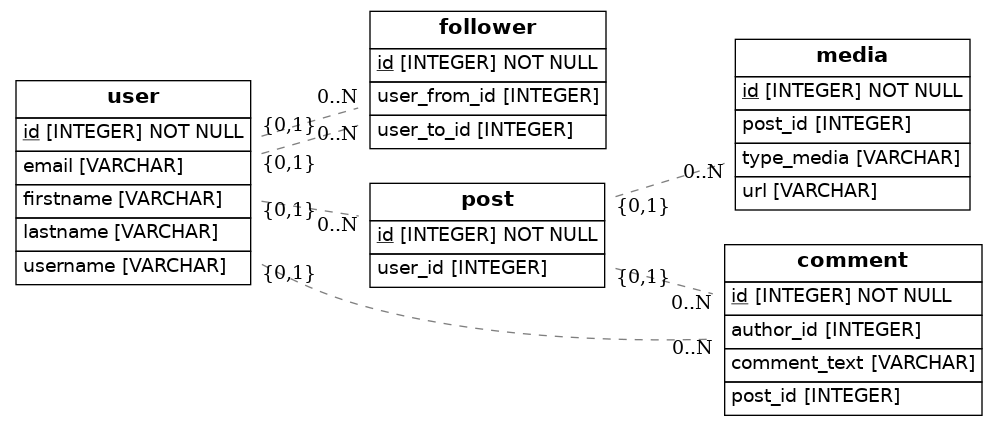
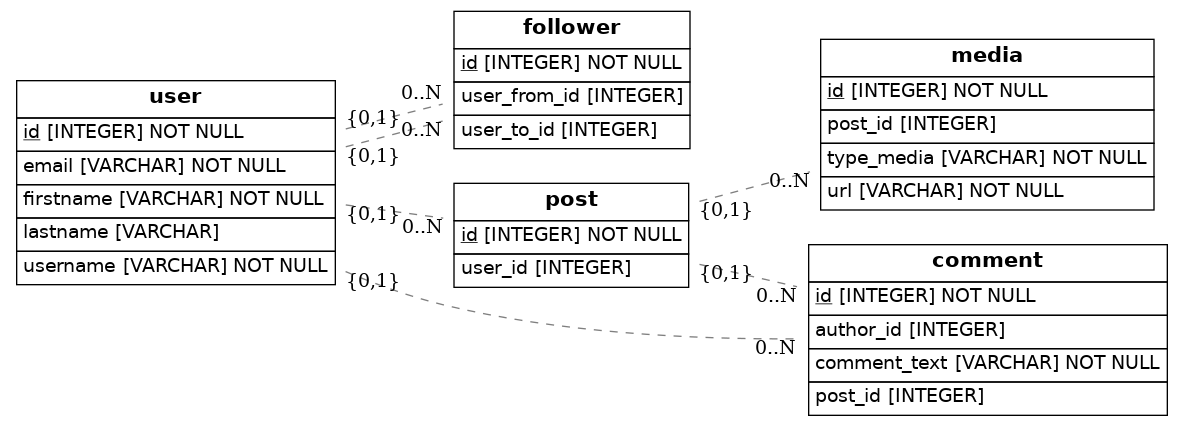
[FIX] names of relationship

diff --git a/src/models.py b/src/models.py
@@ -16,22 +16,21 @@ class Follower(Base):
     user_from_id = Column(Integer, ForeignKey('user.id'))
     user_to_id = Column(Integer, ForeignKey('user.id'))
 
-    user = relationship("User", back_populates = "follower")
+    user_follower = relationship("User", back_populates = "follower_user")
 
 class User(Base):
     __tablename__ = 'user'
     # Here we define columns for the table address.
     # Notice that each column is also a normal Python instance attribute.
     id = Column(Integer, primary_key=True)
-    username = Column(String)
-    firstname = Column(String)
-    lastname = Column(String)
-    email = Column(String)
+    username = Column(String, nullable=False, unique=True, index=True)
+    firstname = Column(String, nullable=False)
+    lastname = Column(String, nullable=True)
+    email = Column(String, nullable=False, unique=True)
 
-    follower = relationship("Follower", back_populates = "user")
-    post = relationship("Post", back_populates = "user")
-    comment = relationship("Comment", back_populates = "user")
-
+    follower_user = relationship("Follower", back_populates = "user_follower")
+    post_user = relationship("Post", back_populates = "user_post")
+    comment_user = relationship("Comment", back_populates = "user_comment")
 
 
     def to_dict(self):
@@ -42,11 +41,11 @@ class Media(Base):
     # Here we define columns for the table person
     # Notice that each column is also a normal Python instance attribute.
     id = Column(Integer, primary_key=True)
-    type_media = Column(Enum)
-    url = Column(String)
+    type_media = Column(Enum, nullable=False)
+    url = Column(String, nullable=False)
     post_id = Column(Integer, ForeignKey('post.id'))
 
-    post = relationship("Post", back_populates = "media")
+    post_media = relationship("Post", back_populates = "media_post")
 
 class Post(Base):
     __tablename__ = 'post'
@@ -55,9 +54,9 @@ class Post(Base):
     id = Column(Integer, primary_key=True)
     user_id = Column(Integer, ForeignKey('user.id'))
 
-    user = relationship("User", back_populates = "post")
-    media = relationship("Media", back_populates = "post")
-    comment = relationship("Comment", back_populates = "post")
+    user_post = relationship("User", back_populates = "post_user")
+    media_post = relationship("Media", back_populates = "post_media")
+    comment_post = relationship("Comment", back_populates = "post_comment")
 
 
 class Comment(Base):
@@ -65,12 +64,12 @@ class Comment(Base):
     # Here we define columns for the table person
     # Notice that each column is also a normal Python instance attribute.
     id = Column(Integer, primary_key=True)
-    comment_text = Column(String)
+    comment_text = Column(String, nullable=False)
     author_id = Column(Integer, ForeignKey('user.id'))
     post_id = Column(Integer, ForeignKey('post.id'))
 
-    user = relationship("User", back_populates = "comment")
-    post = relationship("Post", back_populates = "comment")
+    user_comment = relationship("User", back_populates = "comment_user")
+    post_comment = relationship("Post", back_populates = "comment_post")
 
 
 ## Draw from SQLAlchemy base
